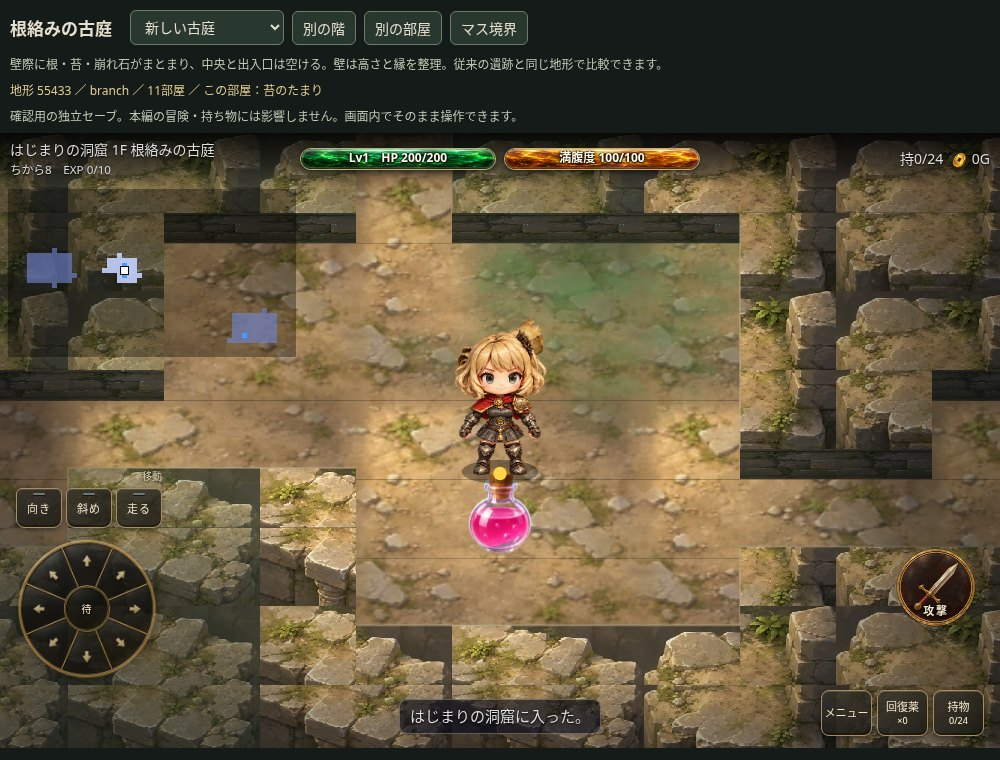
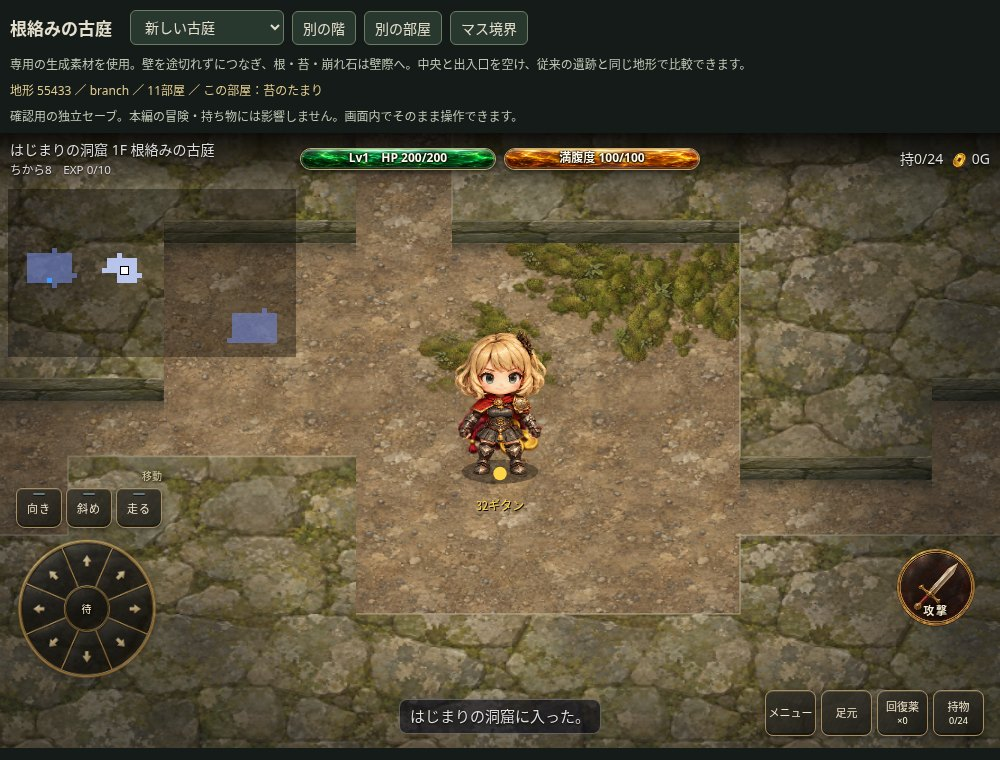
Use generated garden art and connect wall surfaces without gaps

diff --git a/assets/overgrown-garden.js b/assets/overgrown-garden.js
@@ -1,7 +1,41 @@
-// Additional, opt-in location. Reuses original ruins/forest art; no gameplay RNG.
+// Opt-in generated garden art on connected geometry; no gameplay RNG.
 (function(root){
  'use strict';
  const theme={id:'overgrown-garden',name:'根絡みの古庭',filter:'none'};
+ const art={ready:false,error:null,images:{},textures:{},promise:null};
+ function load(){
+  if(art.promise)return art.promise;
+  art.promise=Promise.all(['materials','decals'].map(key=>new Promise((resolve,reject)=>{
+   const image=new Image();image.onload=()=>{art.images[key]=image;resolve();};image.onerror=()=>reject(Error('古庭の画像を取得できません: '+key));
+   image.src='fushigi-overgrown-garden-v1/source-art/garden-'+key+'.png';
+  }))).then(()=>{art.ready=true;}).catch(error=>{art.error=error.message;throw error;});
+  return art.promise;
+ }
+ // Blend only opposing texture edges, retaining the generated painted interior.
+ function texture(key){
+  if(art.textures[key])return art.textures[key];
+  const tile={soil:[0,0],top:[1,0],face:[0,1],mossSoil:[1,1]}[key],image=art.images.materials,half=image.width/2;
+  const c=document.createElement('canvas');c.width=c.height=256;const g=c.getContext('2d');
+  g.drawImage(image,tile[0]*half,tile[1]*half,half,half,0,0,256,256);
+  const src=g.getImageData(0,0,256,256),out=g.createImageData(256,256),data=src.data;
+  for(let y=0;y<256;y++)for(let x=0;x<256;x++){
+   const wx=Math.max(0,1-Math.min(x,255-x)/16)*.5,wy=Math.max(0,1-Math.min(y,255-y)/16)*.5;
+   for(let ch=0;ch<4;ch++){
+    const sample=(xx,yy)=>data[(yy*256+xx)*4+ch];
+    out.data[(y*256+x)*4+ch]=sample(x,y)*(1-wx)*(1-wy)+sample(255-x,y)*wx*(1-wy)+sample(x,255-y)*(1-wx)*wy+sample(255-x,255-y)*wx*wy;
+   }
+  }
+  g.putImageData(out,0,0);art.textures[key]=c;return c;
+ }
+ function surface(g,key,x,y,px,py,w,h,span=3){
+  const t=texture(key),part=t.width/span,sx=((x%span)+span)%span*part,sy=((y%span)+span)%span*part;
+  g.drawImage(t,sx,sy,part,part,px,py,w,h);
+ }
+ function decal(g,index,x,y,w,h,angle=0){
+  const image=art.images.decals,half=image.width/2;
+  g.save();g.translate(x,y);g.rotate(angle);
+  g.drawImage(image,(index%2)*half,Math.floor(index/2)*half,half,half,-w/2,0,w,h);g.restore();
+ }
  const hash=(x,y,seed)=>{let n=Math.imul(x+31,374761393)^Math.imul(y+17,668265263)^seed;n=Math.imul(n^(n>>>13),1274126177);return (n^(n>>>16))>>>0;};
  const plans=new WeakMap();
  function plan(room,seed){
@@ -24,36 +58,23 @@
   const p=plan(room,seed),distance=Math.hypot((x+.5-p.ax),(y+.5-p.ay));
   return {...p,room,strength:Math.max(0,1-distance/p.radius)};
  }
- const overlays=new WeakMap();
+ const overlays=new WeakMap(),DECAL_UNIT=96;
  function composition(room,p,map,rooms,roomGrid,seed){
-  const signature=seed+':'+room.role+':'+map.slice(Math.max(0,room.y-1),room.y+room.h+1).map(row=>row.slice(Math.max(0,room.x-1),room.x+room.w+1).join(',')).join(';');
+  const signature=seed+':'+room.role+':'+art.ready+':'+map.slice(Math.max(0,room.y-1),room.y+room.h+1).map(row=>row.slice(Math.max(0,room.x-1),room.x+room.w+1).join(',')).join(';');
   const prior=overlays.get(room);if(prior?.signature===signature)return prior.canvas;
-  const canvas=document.createElement('canvas'),unit=40;canvas.width=room.w*unit;canvas.height=room.h*unit;
+  const canvas=document.createElement('canvas'),unit=DECAL_UNIT;canvas.width=room.w*unit;canvas.height=room.h*unit;
   const g=canvas.getContext('2d');g.scale(unit,unit);g.translate(-room.x,-room.y);
-  const stain=g.createRadialGradient(p.ax,p.ay,0,p.ax,p.ay,p.radius);
-  stain.addColorStop(0,p.kind==='rubble'?'#89755b75':'#41613c99');stain.addColorStop(1,'#45633c00');
-  g.fillStyle=stain;g.fillRect(room.x,room.y,room.w,room.h);
   if(p.kind==='roots'){
-   const inward=[Math.PI/2,Math.PI,-Math.PI/2,0][p.side];g.lineCap='round';
-   for(let i=0;i<6;i++){
-    const angle=inward+(i-2.5)*.30,len=p.radius*(.65+(hash(i,room.y,seed)%35)/100);
-    const ex=p.ax+Math.cos(angle)*len,ey=p.ay+Math.sin(angle)*len;
-    const path=()=>{g.beginPath();g.moveTo(p.ax,p.ay);g.bezierCurveTo(p.ax+Math.cos(angle+.45)*len*.4,p.ay+Math.sin(angle+.45)*len*.4,ex-Math.cos(angle-.35)*len*.3,ey-Math.sin(angle-.35)*len*.3,ex,ey);};
-    path();g.strokeStyle='#211e1955';g.lineWidth=.14-i*.013;g.stroke();
-    path();g.strokeStyle='#796448dc';g.lineWidth=.08-i*.009;g.stroke();
-    path();g.strokeStyle='#c1a77580';g.lineWidth=.018;g.stroke();
-   }
+   // Generated root base faces the chosen wall; rotating the decal points its
+   // painted branches into the room, with no procedural replacement strokes.
+   decal(g,hash(room.x,room.y,seed)%2,p.ax,p.ay,p.radius*1.5,p.radius,[0,Math.PI/2,Math.PI,-Math.PI/2][p.side]);
   }else{
-   for(let y=room.y;y<room.y+room.h;y++)for(let x=room.x;x<room.x+room.w;x++)for(let i=0;i<7;i++){
-    const a=hash(x+i,y-i,seed),dx=.08+(a%84)/100,dy=.08+((a>>>8)%84)/100;
-    const strength=Math.max(0,1-Math.hypot(x+dx-p.ax,y+dy-p.ay)/p.radius);if(!strength)continue;
-    g.globalAlpha=strength;
-    if(p.kind==='rubble'){
-     g.fillStyle='#302d2950';g.fillRect(x+dx,y+dy+.035,.13,.075);
-     g.fillStyle=['#95866bc0','#b0a187c0','#7c8069c0'][i%3];g.beginPath();g.moveTo(x+dx,y+dy);g.lineTo(x+dx+.11,y+dy-.035);g.lineTo(x+dx+.15,y+dy+.045);g.lineTo(x+dx+.025,y+dy+.07);g.closePath();g.fill();
-    }else{
-     g.fillStyle='#65845170';g.beginPath();g.ellipse(x+dx,y+dy,.22,.12,(a%9)/10,0,Math.PI*2);g.fill();
-    }
+   for(let i=0;i<5;i++){
+    const a=hash(room.x+i,room.y-i,seed),angle=(a%628)/100,radius=p.radius*(.15+((a>>>8)%50)/100);
+    const x=p.ax+Math.cos(angle)*radius,y=p.ay+Math.sin(angle)*radius;
+    const width=p.kind==='moss'?1.6:1.05;
+    g.globalAlpha=p.kind==='moss'?.85:1;
+    decal(g,p.kind==='moss'?2:3,x,y,width,width,(a%4)*Math.PI/2);
    }
   }
   g.globalAlpha=1;g.setTransform(1,0,0,1,0,0);
@@ -61,6 +82,7 @@
   const blocked=[];for(let y=room.y;y<room.y+room.h;y++)for(let x=room.x;x<room.x+room.w;x++)if(!cell(map,rooms,roomGrid,x,y,seed))blocked.push([x,y]);
   const pixels=g.getImageData(0,0,canvas.width,canvas.height),d=pixels.data;
   for(let yy=0;yy<canvas.height;yy++)for(let xx=0;xx<canvas.width;xx++){
+   if(d[(yy*canvas.width+xx)*4+3]===0)continue;
    const wx=room.x+(xx+.5)/unit,wy=room.y+(yy+.5)/unit;
    let alpha=Math.min(1,Math.max(0,(p.radius-Math.hypot(wx-p.ax,wy-p.ay))/.45));
    for(const [bx,by]of blocked){const distance=Math.hypot(Math.max(bx-wx,0,wx-bx-1),Math.max(by-wy,0,wy-by-1));alpha=Math.min(alpha,distance/.35);}
@@ -71,41 +93,49 @@
  function decorate(g,px,py,size,h,options){
   const {map,rooms,roomGrid,x,y,seed}=options,p=cell(map,rooms,roomGrid,x,y,seed);
   if(!p)return;
-  const atlas=composition(p.room,p,map,rooms,roomGrid,seed),unit=40;
+  const atlas=composition(p.room,p,map,rooms,roomGrid,seed),unit=DECAL_UNIT;
   g.drawImage(atlas,(x-p.room.x)*unit,(y-p.room.y)*unit,unit,unit,px,py,size,h);
  }
- function wall(g,px,py,size,h,{map,x,y,seed}){
+ function wall(g,px,py,size,h,{map,x,y}){
   const f=(xx,yy)=>map[yy]?.[xx]!==undefined&&map[yy][xx]!==0;
-  // Same height along each wall run. North-facing cutaways stay low.
-  const rise=size*(f(x,y-1)?.12:.32),n=hash(x>>2,y>>2,seed),variant=n%2;
+  // One elevation for the entire connected surface. Internal tile joins have
+  // neither a facade nor a border; facades exist only above exposed floor.
+  const rise=size*.24;
   g.save();
-  g.fillStyle='#514f40';g.fillRect(px,py-rise,size,h+rise);
-  g.drawImage(CaveTerrain.images['ruins:wallF'+variant],0,0,128,256,px,py-rise+h,size,rise);
-  g.fillStyle='#111a1680';g.fillRect(px,py-rise+h,size,rise);
-  g.drawImage(CaveTerrain.images['ruins:wallT'+variant],(x&1)*128,(y&1)*64,128,128,px,py-rise,size,h);
-  // Quiet moss follows a broad world-space region, not a checkerboard.
-  if((n>>>4)%3===0){g.fillStyle='#45634438';g.fillRect(px,py-rise,size,h);}
+  g.imageSmoothingEnabled=true;
+  // Fill the short vertical band under the cap too: it must stay opaque when
+  // adjoining a room corner or a freshly blasted opening.
+  surface(g,'top',x,y,px,py,size,h,4);
+  if(f(x,y+1)){
+   const face=texture('face'),part=face.width/4;
+   g.drawImage(face,(x%4)*part,32,part,64,px,py+h-rise,size,rise);
+   const shade=g.createLinearGradient(0,py+h-rise,0,py+h);shade.addColorStop(0,'#18221835');shade.addColorStop(1,'#10180e95');
+   g.fillStyle=shade;g.fillRect(px,py+h-rise,size,rise);
+  }
+  surface(g,'top',x,y,px,py-rise,size,h,4);
   // Restrict edge accents to actual exposed boundaries, never tile seams.
   g.lineWidth=Math.max(1,size*.018);g.strokeStyle='#c4b99890';g.beginPath();
   if(f(x,y-1)){g.moveTo(px,py-rise);g.lineTo(px+size,py-rise);}
   if(f(x-1,y)){g.moveTo(px,py-rise);g.lineTo(px,py-rise+h);}
   g.stroke();
-  if(f(x,y+1)){g.fillStyle='#101a1855';g.fillRect(px,py+h-Math.max(1,size*.04),size,Math.max(1,size*.04));}
+  if(f(x,y+1)){g.fillStyle='#c4b99855';g.fillRect(px,py+h-rise,size,Math.max(1,size*.016));}
   g.restore();return true;
  }
  const original=CaveTerrain.draw;
  CaveTerrain.draw=function(g,key,px,py,size,options){
   if(options.theme?.id!==theme.id)return original(g,key,px,py,size,options);
+  options={...options,x:options.x??0,y:options.y??0};
   if(!CaveTerrain.ready)return false;
+  if(!art.ready){if(!art.promise)load().then(()=>root.render?.()).catch(()=>{});return false;}
   const h=size*CaveTerrain.pitch;
   if(key==='wallF'||key==='wallT')return wall(g,px,py,size,h,options);
-  // Reuse the quietest single ruins floor; decoration supplies room-scale variety.
-  let ok;
+  let ok=true;
   if(key.startsWith('floor')){
-   // A three-cell material span removes the old one-cell wallpaper rhythm.
-   // Crop in world coordinates so every shared tile edge remains continuous.
-   g.save();g.beginPath();g.rect(px,py,size,h);g.clip();
-   ok=original(g,key,px-(options.x%3)*size,py-(options.y%3)*h,size*3,{...options,x:0,y:0,seed:1,theme:{id:'ruins'}});
+   g.save();g.imageSmoothingEnabled=true;
+   surface(g,'soil',options.x,options.y,px,py,size,h);
+   // Ground contact is derived from live collision geometry, never baked into
+   // a sprite outline; explosions immediately reveal clean floor.
+   if(options.map[options.y-1]?.[options.x]===0){const shade=g.createLinearGradient(0,py,0,py+h*.22);shade.addColorStop(0,'#1c241d60');shade.addColorStop(1,'#1c241d00');g.fillStyle=shade;g.fillRect(px,py,size,h*.22);}
    g.restore();
   }else ok=original(g,key,px,py,size,{...options,theme:{id:'ruins'}});
   if(key.startsWith('floor'))decorate(g,px,py,size,h,options);
@@ -113,5 +143,5 @@
  };
  // Existing five-location rotation stays intact; review can explicitly select it.
  DungeonGenerator.locations=[...DungeonGenerator.themes,theme];
- root.OvergrownGarden={theme,plan,cell};
+ root.OvergrownGarden={theme,plan,cell,art,load,texture};
 })(typeof window==='undefined'?globalThis:window);

diff --git a/fushigi-overgrown-garden-v1/index.html b/fushigi-overgrown-garden-v1/index.html
@@ -4,7 +4,7 @@
 body{margin:0;background:#141b18;color:#e5dfcd;font:14px system-ui,sans-serif}header{padding:10px;display:flex;gap:8px;align-items:center;flex-wrap:wrap}h1{font-size:17px;margin:0 10px 0 0}button,select{font:inherit;color:inherit;background:#29382e;border:1px solid #6d7d65;border-radius:6px;padding:6px 10px}p{margin:0;padding:0 10px 8px;font-size:12px;color:#c0c8b6}iframe{display:block;width:100%;height:calc(100dvh - 145px);min-height:300px;border:0}#status{color:#e1cb91}button:disabled{opacity:.4}
 </style></head><body>
 <header><h1>根絡みの古庭</h1><select id="look" aria-label="景観"><option value="overgrown-garden">新しい古庭</option><option value="ruins">従来の遺跡と比較</option></select><button id="next" disabled>別の階</button><button id="room" disabled>別の部屋</button><button id="grid" disabled>マス境界</button></header>
-<p>壁際に根・苔・崩れ石がまとまり、中央と出入口は空ける。壁は高さと縁を整理。従来の遺跡と同じ地形で比較できます。</p>
+<p>専用の生成素材を使用。壁を途切れずにつなぎ、根・苔・崩れ石は壁際へ。中央と出入口を空け、従来の遺跡と同じ地形で比較できます。</p>
 <p id="status" role="status">読み込み中…</p><p>確認用の独立セーブ。本編の冒険・持ち物には影響しません。画面内でそのまま操作できます。</p>
 <iframe id="game" title="古庭のプレイ確認"></iframe>
 <script>
@@ -15,6 +15,7 @@ function apply(){run('floorPlan.theme='+($('look').value==='overgrown-garden'?'O
 frame.onload=async()=>{
  if(!frame.srcdoc)return;
  try{
+  await frame.contentWindow.OvergrownGarden.load();
   const begin=Date.now();while(!run('CaveTerrain.ready && ApprovedHero.ready && DungeonExperience.ready')){if(Date.now()-begin>30000)throw Error('素材の読み込みが完了しません');await new Promise(r=>setTimeout(r,100));}
   run(`window.gardenSeed=${seed};window.gardenRoom=0;const gardenGenerate=DungeonGenerator.generate;DungeonGenerator.generate=function(w,h,s,d){const p=gardenGenerate(w,h,window.gardenSeed,d);p.theme=OvergrownGarden.theme;return p;};enterDungeon();player.hp=player.maxhp=200;`);
   // Draw grid after the game only on request; no gameplay/visibility changes.

diff --git a/index.html b/index.html
@@ -147,7 +147,7 @@ canvas{display:block;touch-action:none}
 <script src="assets/hero-actions.js?v=bread-art-v1"></script>
 <script src="assets/dungeon-generator.js?v=locations-v1"></script>
 <script src="assets/cave-terrain.js?v=wall-relief-v1"></script>
-<script src="assets/overgrown-garden.js?v=garden-v1"></script>
+<script src="assets/overgrown-garden.js?v=garden-generated-v2"></script>
 <script src="fushigi-monsters-v1/monsters-renderer.js?v=motions-v1"></script>
 <link rel="stylesheet" href="assets/allies.css?v=dialog-v4">
 <link rel="stylesheet" href="assets/dungeon-shop.css?v=shops-v1">

diff --git a/fushigi-overgrown-garden-v1/check_browser.py b/fushigi-overgrown-garden-v1/check_browser.py
@@ -1,5 +1,6 @@
 """Run with the checkout served at 127.0.0.1:8000; write current review captures."""
 import json
+import base64
 from pathlib import Path
 from playwright.sync_api import sync_playwright
 
@@ -18,6 +19,40 @@ with sync_playwright() as p:
     page.wait_for_timeout(1000)
     assert game.evaluate("floorPlan.theme.id==='overgrown-garden' && scene==='dungeon'")
     assert game.evaluate("DungeonGenerator.themes.length===5 && DungeonGenerator.locations.length===6")
+    assert game.evaluate('OvergrownGarden.art.ready')
+    connections = game.evaluate('''() => {
+      const size=40,pitch=size*CaveTerrain.pitch,neighbors=[[-1,-1],[0,-1],[1,-1],[-1,0],[1,0],[-1,1],[0,1],[1,1]];
+      const c=document.createElement('canvas');c.width=size*5;c.height=Math.ceil(pitch*5);const g=c.getContext('2d');
+      const render=(m,ctx,ox=0,oy=0,s=size)=>{
+        for(let y=0;y<m.length;y++)for(let x=0;x<m[0].length;x++){
+          CaveTerrain.draw(ctx,m[y][x]?'floor0':'wallT',ox+x*s,oy+y*s*CaveTerrain.pitch,s,{map:m,x,y,seed:17,theme:OvergrownGarden.theme});
+        }
+      };
+      for(let mask=0;mask<256;mask++){
+        const m=Array.from({length:5},()=>Array(5).fill(0));
+        neighbors.forEach(([dx,dy],i)=>{m[2+dy][2+dx]=(mask>>i)&1;});g.clearRect(0,0,c.width,c.height);render(m,g);
+        const pixels=g.getImageData(size,Math.ceil(pitch),size*3,Math.floor(pitch*3)).data;
+        for(let i=3;i<pixels.length;i+=4)if(pixels[i]!==255)throw Error('transparent wall seam at topology '+mask);
+      }
+      for(const key of ['soil','top','face']){
+        const t=OvergrownGarden.texture(key),d=t.getContext('2d').getImageData(0,0,256,256).data;
+        for(let i=0;i<256;i++)for(let ch=0;ch<4;ch++){
+          if(Math.abs(d[(i*256)*4+ch]-d[(i*256+255)*4+ch])>1||Math.abs(d[i*4+ch]-d[(255*256+i)*4+ch])>1)throw Error('material wrap seam '+key);
+        }
+      }
+      const sheet=document.createElement('canvas');sheet.width=840;sheet.height=520;const sg=sheet.getContext('2d');sg.fillStyle='#171e19';sg.fillRect(0,0,sheet.width,sheet.height);
+      const cases=[
+        ['部屋と入口',['######','#....#','#....#','#.....','#....#','######']],
+        ['L字の壁',['......','.###..','.###..','.#####','.#####','......']],
+        ['T字の壁',['......','.####.','..##..','..##..','..##..','......']],
+        ['1マス通路',['######','##.###','##.###','##...#','####.#','####.#']],
+        ['壁の角',['......','..##..','..##..','......','.####.','......']],
+        ['十字通路',['##.###','##.###','......','##.###','##.###','##.###']]
+      ];
+      cases.forEach(([name,rows],i)=>{const x=18+(i%3)*278,y=36+Math.floor(i/3)*252;sg.fillStyle='#e4deca';sg.font='16px sans-serif';sg.fillText(name,x,y-10);render(rows.map(row=>[...row].map(ch=>ch==='#'?0:1)),sg,x,y+8,40);});
+      return {topologies:256,opaque:true,periodicMaterials:3,sheet:sheet.toDataURL('image/png').split(',')[1]};
+    }''')
+    (OUT / 'wall-connections.png').write_bytes(base64.b64decode(connections.pop('sheet')))
     reports = []
     for kind in ['roots', 'moss', 'rubble']:
         result = game.evaluate('''kind => {
@@ -77,7 +112,7 @@ with sync_playwright() as p:
     assert game.evaluate("floorPlan.theme.id==='overgrown-garden'")
     assert page.evaluate('Object.fromEntries(Object.entries(localStorage))') == saved, 'real save changed'
     assert not errors, errors
-    result = {'status': 'passed', 'motifs': reports, 'portrait': True,
+    result = {'status': 'passed', 'wallConnections': connections, 'generatedArt': True, 'motifs': reports, 'portrait': True,
               'appearanceTogglePreservesGameplay': True, 'saveRestore': True,
               'liveWallChangeRendered': True, 'realStorageUnchanged': True, 'jsErrors': errors}
     (OUT / 'validation.json').write_text(json.dumps(result, ensure_ascii=False, indent=2)+'\n')

diff --git a/fushigi-overgrown-garden-v1/README.md b/fushigi-overgrown-garden-v1/README.md
@@ -10,12 +10,18 @@
 - 部屋の座標・地形の描画シードから、根／苔／崩れ石の主題と主役になる壁を選ぶ。
 - 一部屋を一つの連続した絵として合成し、壁際から広がる濃淡と群生を作る。タイルごとの独立抽選はしない。
 - 中央、出入口、階段、通路、店舗床を空ける。保護する部分へ近づくにつれ装飾を薄くし、マス境界で絵が突然切れないようにする。
-- 根は壁側から室内へ伸びる曲線。苔と小石も同じ部屋のまとまりに従う。すべて平面の装飾で、障害物・取得アイテムにはしない。
-- 壁は奥0.32マス／手前0.12マスの一定高。露出した境界の縁取り・側面の陰影で段差を示す。移動・角抜け・視界のルールは変更しない。
+- 根は専用生成画像2種を壁側から室内へ向ける。苔と小石も専用の透過生成画像を同じ部屋のまとまりに従って置く。コードで植物や小石の絵を描かない。すべて平面の装飾で、障害物・取得アイテムにはしない。
+- 壁全体は0.24マスの一定高。同じ高さの上面を連続させ、壁同士の内部境界には側面や縁取りを出さない。床に面する部分だけに縁と側面を出す。専用生成画像は輪郭を持たない不透明な材質で、既存画像の欠けや飛び出した石を流用しない。移動・角抜け・視界のルールは変更しない。
 - 地形・役割の変化で合成キャッシュを無効化する。大砲で床になったマスはライブの地形と部屋所属から描画し直す。
-- 床の模様は3マス単位でつなぎ、一マスごとの繰り返しを弱める。
+- 床は3マス、壁上面は4マスで材質をつなぐ。材質の対向する端だけを描画時にブレンドし、共有境界の継ぎ目を抑える。
 
-新規の生成画像ではなく、既存のオリジナル遺跡素材 `assets/dungeon/locations-v1/ruins/` とCanvasによる装飾を使った配置ロジックの試作。素材自体の制作履歴は `fushigi-locations-v1/`。植物の専用原画は未制作。
+## 専用の生成原画（2026-10-23）
+
+`source-art/garden-materials.png` は専用の床／壁上面／壁側面／苔のある床の4区画。`source-art/garden-decals.png` は根2種／苔／崩れ石の透過4区画。いずれも画像生成ツールで制作した1254×1254画像で、生成出力から変更せずコピーしている。シートは各627×627区画をCanvasで参照し、根・苔・崩れ石の形を手描きコードで代用しない。床・壁の色や石材も今回の専用原画へ差し替えた。階段と画面外の天井は既存の遺跡素材を再利用している。
+
+正確な生成プロンプトと用途は `generation-record.json`、寸法・透過・SHA-256は `source-art/manifest.json`。原画はリポジトリ外の `/workspace/generated_images/` にも残している。通常プレイの既存ロケーションでは新原画をロードせず、古庭の初回描画か確認画面で取得する。
+
+部屋の合成は1マス96pxで保持し、横画面でも生成画像の細部が粗く拡大されないようにする。合成キャッシュは部屋オブジェクトに弱参照で結び、古い階を保持し続けない。
 
 確認画面では全localStorageをフレーム内のメモリへ差し替える。本編の冒険保存、町の保存、設定やページ離脱時の保存に触れない。確認画面を再読込すると初期状態へ戻る。
 
@@ -30,12 +36,13 @@ node tests/harness.js index.html tests/test_run_save.js
 python3 fushigi-overgrown-garden-v1/check_browser.py
 ```
 
-ブラウザ検証はシステムChromiumとPython Playwrightを使用。根・苔・小石、縦横画面、比較切替でのゲーム状態維持、保存復元、大砲による壁破壊後の描画、本編localStorageが不変であることを確認する。現在の結果は `validation.json`。同時に比較用JPEGを出力する。
+ブラウザ検証はシステムChromiumとPython Playwrightを使用。壁周囲256接続で透明な隙間がないこと、床／上面／側面の材質端が一致すること、根・苔・小石、縦横画面、比較切替でのゲーム状態維持、保存復元、大砲による壁破壊後の描画、本編localStorageが不変であることを確認する。現在の結果は `validation.json`。同時に比較用JPEGと壁接続図を出力する。
 
 - [根・横画面](roots-landscape.jpg)
 - [苔・横画面](moss-landscape.jpg)
 - [崩れ石・横画面](rubble-landscape.jpg)
 - [根・縦画面](roots-portrait.jpg)
 - [従来の遺跡・同じ地形](previous-ruins.jpg)
+- [入口・角・細い通路の接続](wall-connections.png)
 
-今後はスマホでの判読性と、根の描画密度・壁の四角さを見て調整する。専用原画の制作や通常階への出現はこの試作の確認後に判断する。
+今後はスマホでの判読性と根の密度を確認して調整する。通常階への出現はこの試作の確認後に判断する。

diff --git a/docs/HANDOVER.md b/docs/HANDOVER.md
@@ -4,7 +4,7 @@
 
 ## 1. 結論（いまの状態）
 
-- **追加ロケーション「根絡みの古庭」の試作（2026-10-23、作業ブランチ）**：ユーザーの「壁の境界・高さと部屋単位の装飾配置を、ロケーション追加で試す」に対応。`assets/overgrown-garden.js` に追加候補を分離。部屋ごとに根／苔／崩れ石と寄せる壁を決め、連続した構図を生成。中央・入口・階段・店舗を保護し、装飾を薄く接続。壁は一定の高さと境界の陰影。既存遺跡素材の再利用＋Canvas装飾で、専用生成原画は未制作。`fushigi-overgrown-garden-v1/` に同じ地形の従来遺跡との比較・操作可能な独立セーブ確認画面。既存5ロケーションの通常巡回は維持。main反映・公開は未実施。
+- **追加ロケーション「根絡みの古庭」（2026-10-23、作業ブランチ）**：ユーザーの「ロケーション追加で試す」「手描きコードの部分は生成」「壁のガタつきを直す」に対応。`assets/overgrown-garden.js` に分離。専用生成原画2枚（床・壁上面・側面の材質シート、根2種・苔・崩れ石の透過シート）を使用し、手描きコードによる根・苔・石の仮絵を廃止。部屋ごとの主題と寄せる壁、中央・入口・階段・店舗を空ける配置は維持。壁は全体0.24マス高で接続し、内部境界には側面・縁を描かない。生成材質を使い、旧画像の欠け・段差を除去。階段と画面外の天井は既存遺跡素材を再利用。`fushigi-overgrown-garden-v1/` に独立セーブ比較画面・原画・プロンプト・ハッシュ・確認画像。壁256接続／材質端・部屋配置100シード・実ブラウザ3主題／縦横／保存／壁破壊を確認。既存5ロケーションの通常巡回は維持。main反映・公開は未実施。
 
 - **大砲3×3・地形破壊・敵の進化（2026-10-23）**：ユーザーの「ここまでできたら全て実装」により反映。最初の壁/生物への着弾点＋周囲8マスに固定20/30/40/50ダメージ（ランク別）。敵・同種・助っ人・砲手自身も対象、範囲内の壁を床へ変更し視界更新。外周と階段は維持。別の敵/助っ人を倒したモンスターは1体ごとに同系統の次ランク（21系統・第4段階まで）へ進化、姿/名前/能力を切替。HPは上位最大へ回復（本作の判断。本家回復量は未確認）。全員の被弾を確定してから進化するため自滅した砲手は復活しない。敵同士の撃破では主人公/助っ人に経験値なし。壁・種類・HP・再装填を途中保存。爆発/土ぼこり/進化の光柱に既存CC0画像を使用。`assets/monster-combat.js`、資料/6場面の別セーブ確認/出典は `fushigi-cannon-evolution-v1/`。82機能、ブラウザ6場面と縦横/保存/視界、深層373・仲間47・敵VFX53・保存31・警備30・成長/罠VFX・MVPを確認。
 
@@ -94,7 +94,7 @@ node tests/harness.js index.html tests/test_mvp.js      # ALL OK が出れば成
 
 ## 5. 次にやること（提案＝仮説。優先順）
 
-- 追加ロケーションのデザイン確認：`fushigi-overgrown-garden-v1/index.html` で根・苔・崩れ石の偏り、中央／入口の空き、壁の高さ・縁を縦横で比較する。配置ロジック100シード、実ブラウザ3主題・保存復元・本編セーブ分離・壁破壊後の描画を検証。原画の仕上げと通常階への追加は見た目を確認して判断する。
+- 追加ロケーションのデザイン確認：`fushigi-overgrown-garden-v1/index.html` で根・苔・崩れ石の偏り、中央／入口の空き、壁の高さ・縁を縦横で比較する。配置ロジック100シード、実ブラウザ3主題・保存復元・本編セーブ分離・壁破壊後の描画を検証。専用生成原画と壁接続の修正版を見て、密度調整と通常階への追加を判断する。
 
 - 大砲と進化：`fushigi-cannon-evolution-v1/game-review.html` と深層で、壁の破壊後の見通し・同種の巻き添え・連続進化の危険度を実機確認。3×3/壁/進化/画像演出/保存は実装済み。
 
